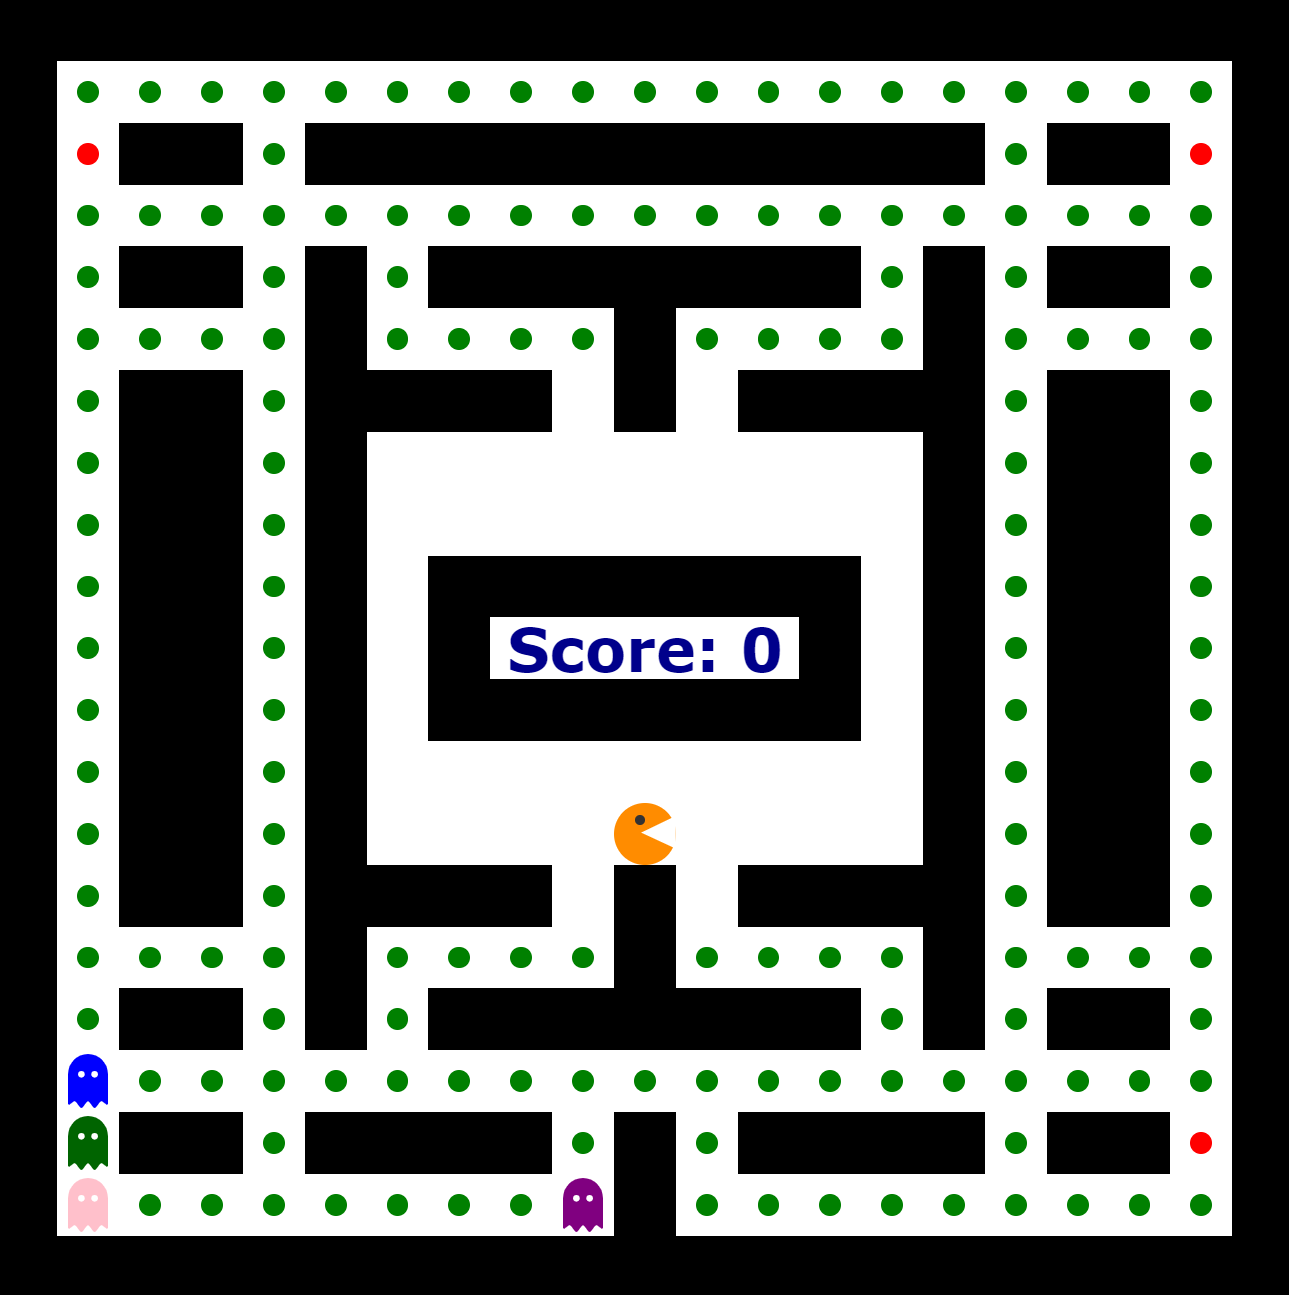
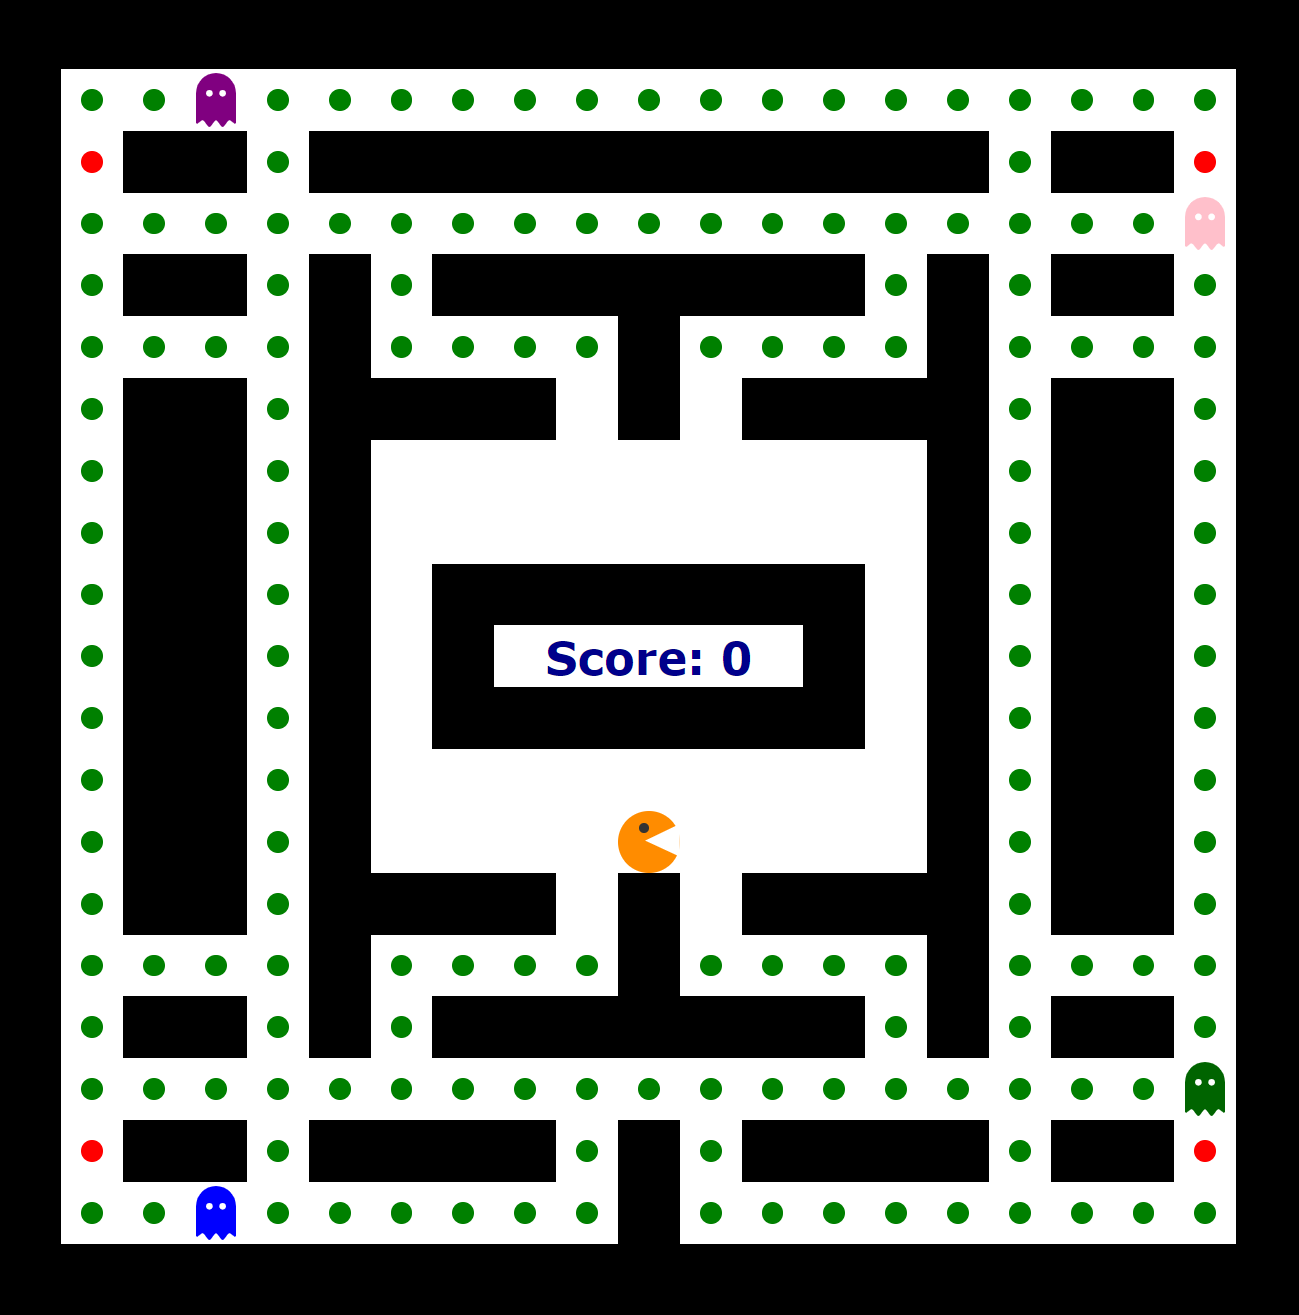
styling

diff --git a/02-TypeScript/18-personalProject/VladiBykanov/src/style.scss b/02-TypeScript/18-personalProject/VladiBykanov/src/style.scss
@@ -10,7 +10,17 @@
   --div-size: calc(90vh / 21);
 }
 
-body {
+.gameWrapper {
+  height: 100vh;
+  width: 100vw;
+  display: flex;
+  align-items: center;
+  justify-content: space-around;
+  background-color: darkblue;
+}
+
+.welcomePageWrapper {
+  background-color: darkblue;
   height: 100vh;
   width: 100vw;
   display: flex;
@@ -22,35 +32,39 @@ body {
   aspect-ratio: 3/2;
   width: 60vw;
   background-color: darkgoldenrod;
+  border-radius: 20px;
   display: flex;
   flex-direction: column;
   align-items: center;
   justify-content: space-around;
-  .choices{
-    // border: 1px solid black;
+  &__choices {
     width: 100%;
     height: 70%;
     display: flex;
     justify-content: center;
     gap: 1vw;
-    .choice{
-        border: 1px solid white;
-        display: flex;
-        justify-content: center;
-        width: 45%;
-        img{
-            width: 100%;
-        }
+    &__choice {
+      display: flex;
+      justify-content: center;
+      width: 45%;
+      img {
+        width: 100%;
+      }
     }
-    .choice:hover{
+    &__choice:hover {
       box-shadow: 0 0 50px black;
       cursor: pointer;
     }
   }
-  button{
+  button {
     font-size: 1.5rem;
-    padding: .5em 2em;
-
+    padding: 0.5em 2em;
+    border: none;
+    border-radius: 10px;
+  }
+  button:hover {
+    cursor: pointer;
+    transform: scale(1.1);
   }
 }
 
@@ -61,7 +75,8 @@ body {
   display: flex;
   flex-wrap: wrap;
   position: relative;
-  b{
+  background-color: white;
+  b {
     position: absolute;
     font-size: 5vh;
     z-index: 1;
@@ -206,7 +221,7 @@ body {
   }
 }
 
-.liveScore{
+.liveScore {
   position: absolute;
   color: darkblue;
   font-size: 1.5rem;

diff --git a/02-TypeScript/18-personalProject/VladiBykanov/src/dist/style.css b/02-TypeScript/18-personalProject/VladiBykanov/src/dist/style.css
@@ -10,7 +10,17 @@
   --div-size: calc(90vh / 21);
 }
 
-body {
+.gameWrapper {
+  height: 100vh;
+  width: 100vw;
+  display: flex;
+  align-items: center;
+  justify-content: space-around;
+  background-color: darkblue;
+}
+
+.welcomePageWrapper {
+  background-color: darkblue;
   height: 100vh;
   width: 100vw;
   display: flex;
@@ -22,34 +32,40 @@ body {
   aspect-ratio: 3/2;
   width: 60vw;
   background-color: darkgoldenrod;
+  border-radius: 20px;
   display: flex;
   flex-direction: column;
   align-items: center;
   justify-content: space-around;
 }
-.welcomePage .choices {
+.welcomePage__choices {
   width: 100%;
   height: 70%;
   display: flex;
   justify-content: center;
   gap: 1vw;
 }
-.welcomePage .choices .choice {
-  border: 1px solid white;
+.welcomePage__choices__choice {
   display: flex;
   justify-content: center;
   width: 45%;
 }
-.welcomePage .choices .choice img {
+.welcomePage__choices__choice img {
   width: 100%;
 }
-.welcomePage .choices .choice:hover {
+.welcomePage__choices__choice:hover {
   box-shadow: 0 0 50px black;
   cursor: pointer;
 }
 .welcomePage button {
   font-size: 1.5rem;
   padding: 0.5em 2em;
+  border: none;
+  border-radius: 10px;
+}
+.welcomePage button:hover {
+  cursor: pointer;
+  transform: scale(1.1);
 }
 
 .maze {
@@ -59,6 +75,7 @@ body {
   display: flex;
   flex-wrap: wrap;
   position: relative;
+  background-color: white;
 }
 .maze b {
   position: absolute;

diff --git a/02-TypeScript/18-personalProject/VladiBykanov/startPage.html b/02-TypeScript/18-personalProject/VladiBykanov/startPage.html
@@ -9,17 +9,19 @@
     <script src="./src/dist/startPage.js"></script>
   </head>
   <body>
-    <div class="welcomePage">
-      <h1>Choose a map and start</h1>
-      <div class="choices">
-        <div class="choice">
-          <img class="mapOne" src="./img/PacmanMaze01.png" alt="" />
+    <div class="welcomePageWrapper">
+      <div class="welcomePage">
+        <h1>Choose a map and start</h1>
+        <div class="welcomePage__choices">
+          <div class="welcomePage__choices__choice">
+            <img class="mapOne" src="./img/mapOne.png" alt="" />
+          </div>
+          <div class="welcomePage__choices__choice">
+            <img class="mapTwo" src="./img/mapTwo.png" alt="" />
+          </div>
         </div>
-        <div class="choice">
-          <img class="mapTwo" src="./img/mapTwo.png" alt="" />
-        </div>
+        <button class="startGameBtn">START</button>
       </div>
-      <button class="startGameBtn">START</button>
     </div>
   </body>
 </html>

diff --git a/02-TypeScript/18-personalProject/VladiBykanov/index.html b/02-TypeScript/18-personalProject/VladiBykanov/index.html
@@ -14,10 +14,12 @@
     <script src="./src/dist/main.js" defer></script>
   </head>
   <body>
-    <div class="maze">
-      <b class="winMessage">YOU WIN!</b>
-      <b class="loseMessage">GAME OVER!</b>
+    <div class="gameWrapper">
+      <div class="maze">
+        <b class="winMessage">YOU WIN!</b>
+        <b class="loseMessage">GAME OVER!</b>
+      </div>
+      <h1 class="liveScore">Score: <span id="score">0</span></h1>
     </div>
-    <h1 class="liveScore">Score: <span id="score">0</span></h1>
   </body>
 </html>
